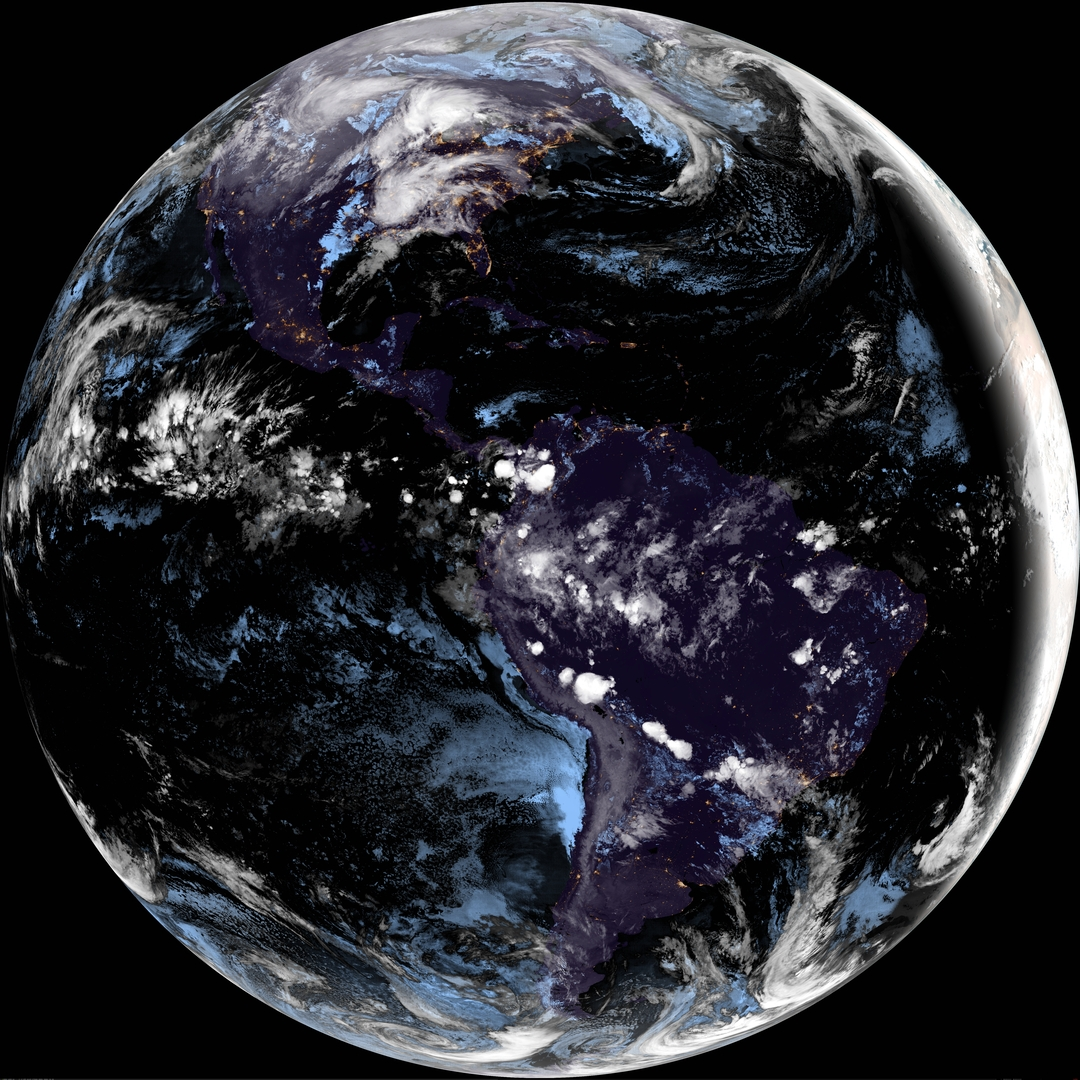
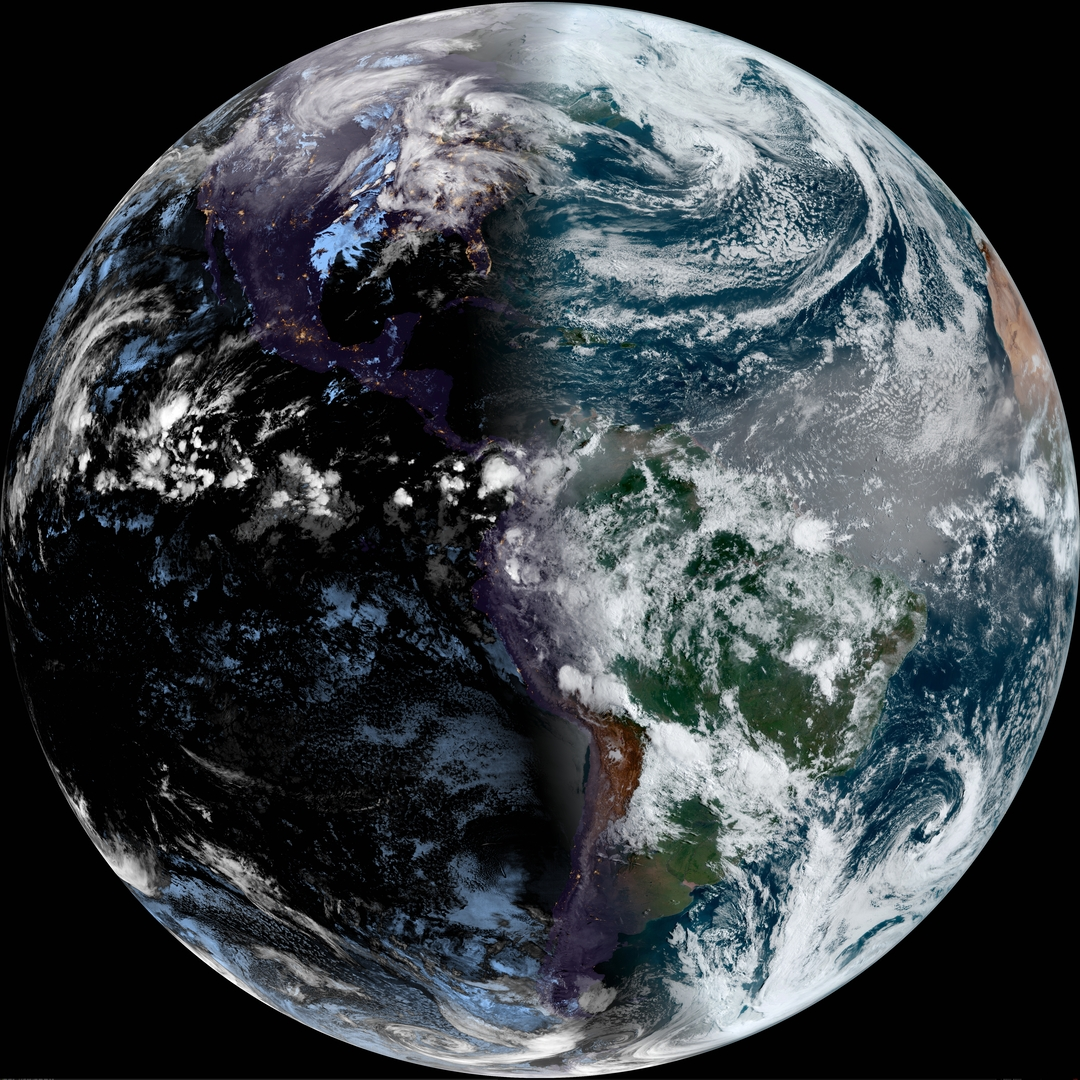
update images

diff --git a/index.html b/index.html
@@ -53,7 +53,7 @@
       <a class="top-bar-link" href="https://github.com/ungoldman/satellites">🐈 github</a>
     </div>
   </nav>
-  <p class="last-updated">Last updated: <date>2022-04-13 @ 08:12 UTC</date>.<br>Updates every 4 hours.</p>
+  <p class="last-updated">Last updated: <date>2022-04-13 @ 12:07 UTC</date>.<br>Updates every 4 hours.</p>
   <div class="sats">
     <img title="GOES-17 Full Disk GeoColor" src="./images/goes-17-latest.jpg">
     <img title="GOES-16 Full Disk GeoColor" src="./images/goes-16-latest.jpg">
